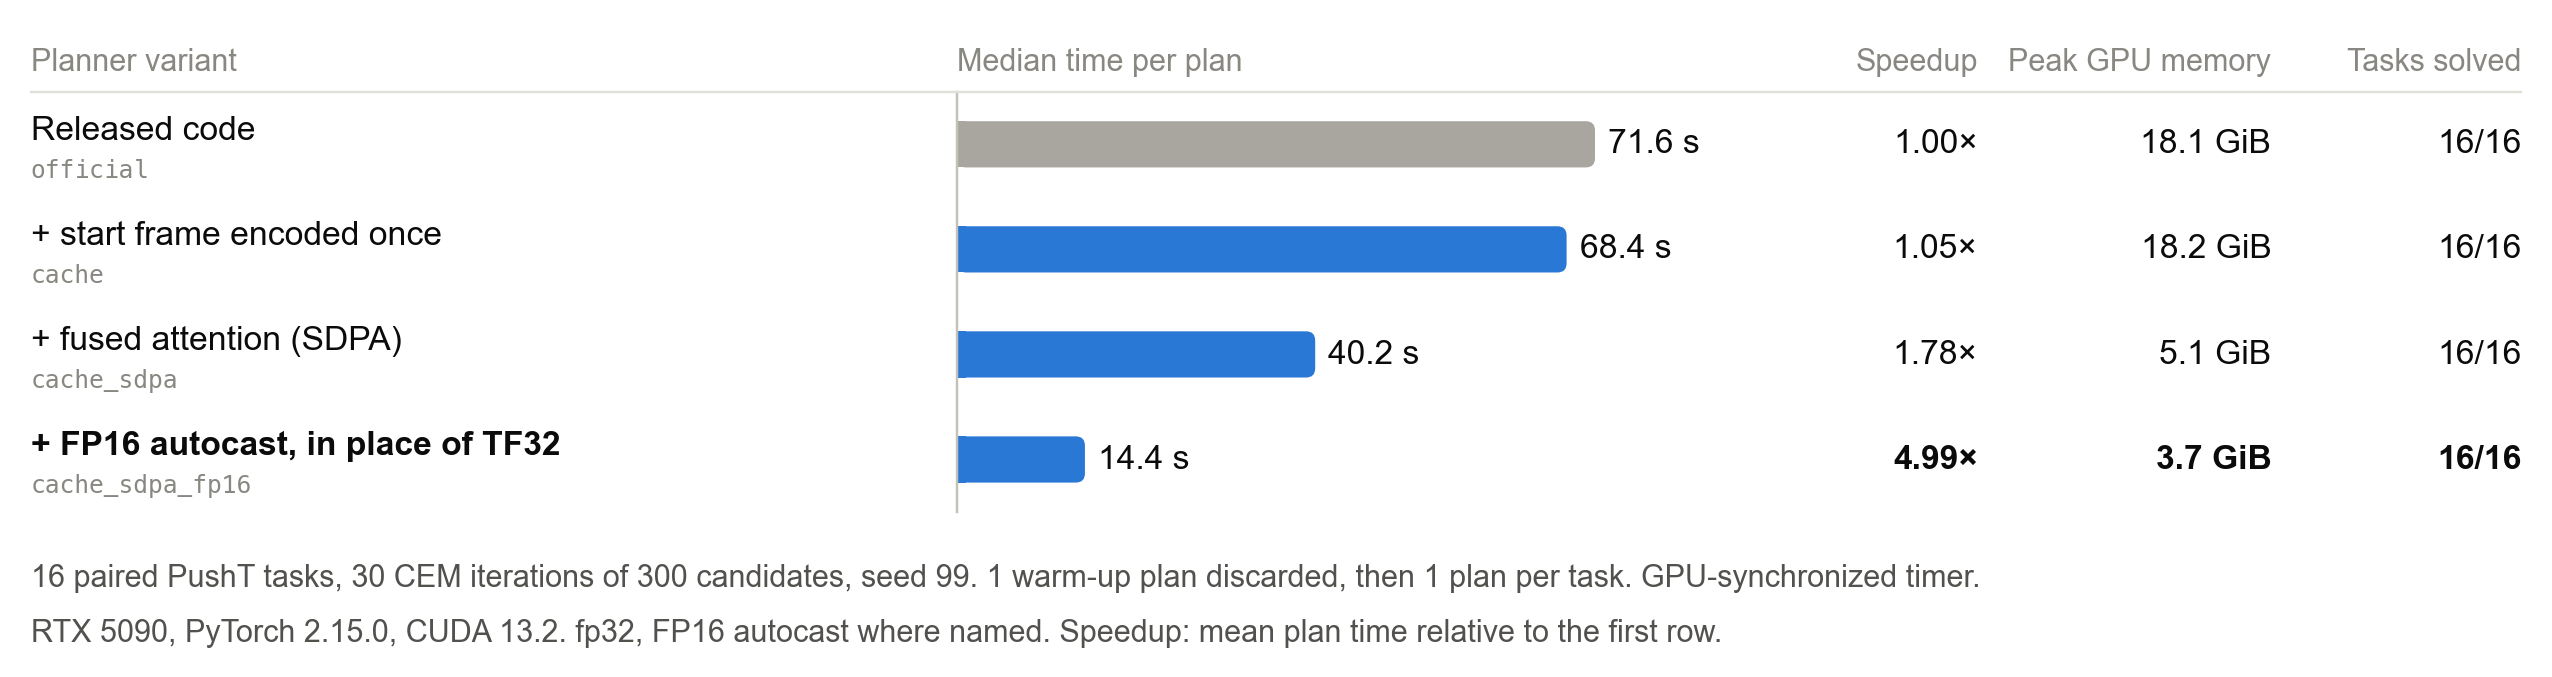
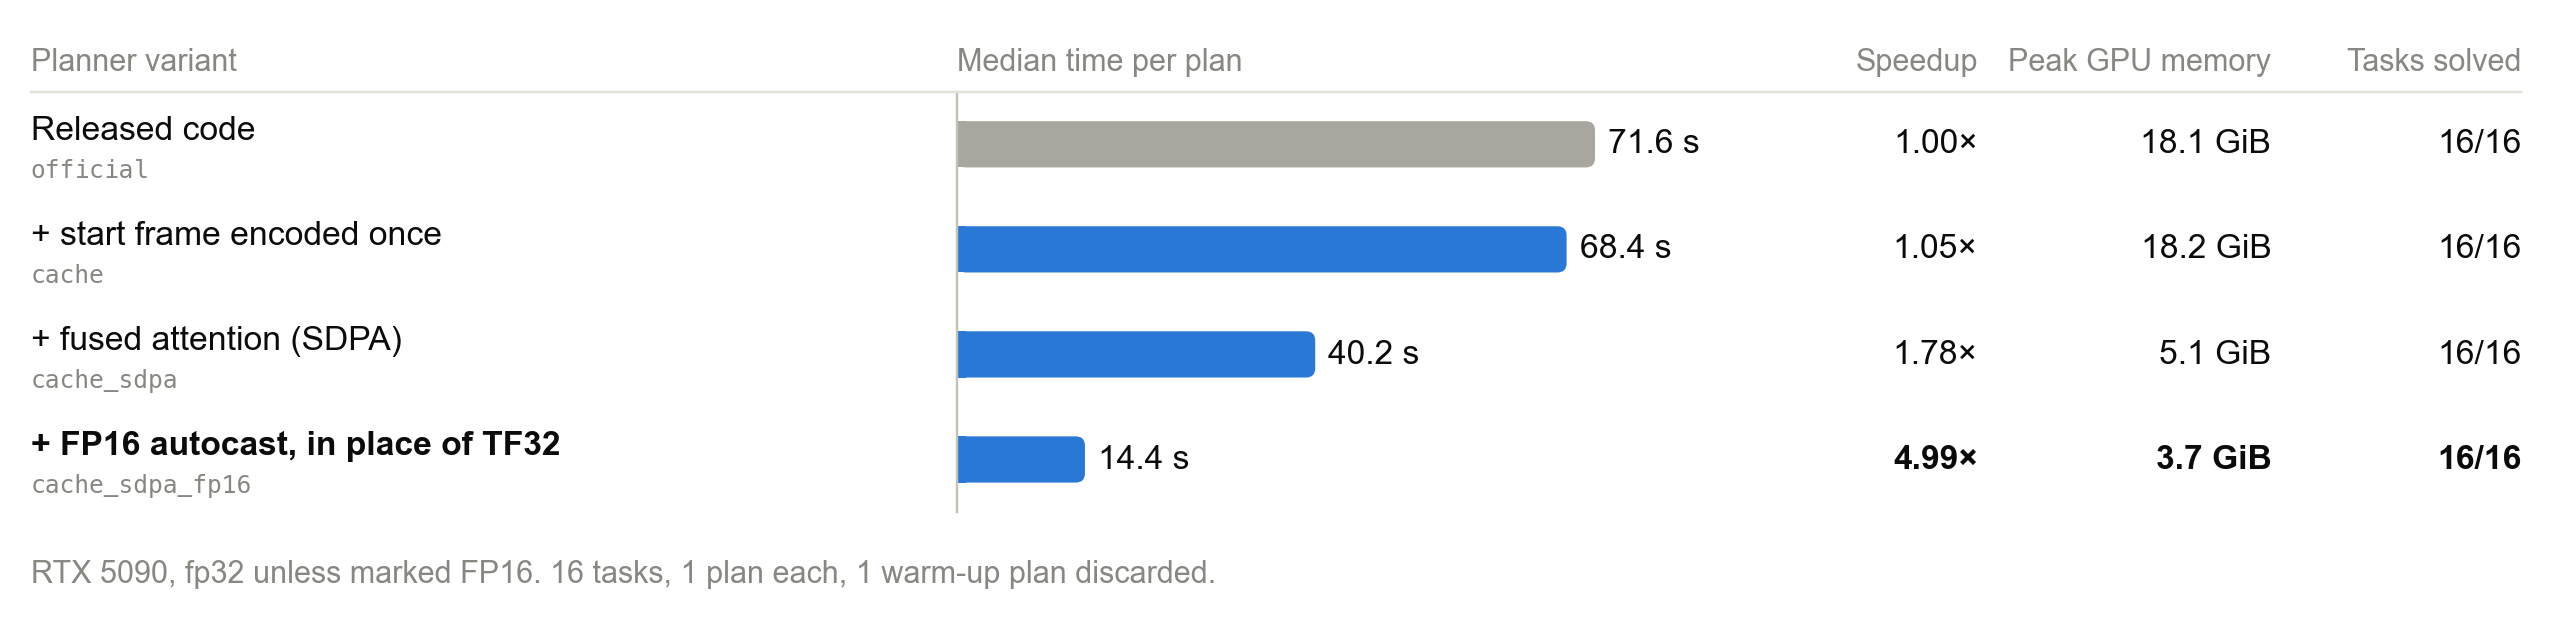
Results figure: one short conditions line

diff --git a/bench/summarize.py b/bench/summarize.py
@@ -113,7 +113,7 @@ if V:
 
     # summary.png: one row per variant, read as a table with the plan time drawn as a bar
     names = list(V); n = len(names); best = min(V.values(), key=lambda v: v["latency_median_s"])
-    fig = plt.figure(figsize=(11.6, 1.2 + 0.47 * n)); H = fig.get_figheight(); top, bot = 1 - 0.42 / H, 0.75 / H
+    fig = plt.figure(figsize=(11.6, 0.95 + 0.47 * n)); H = fig.get_figheight(); top, bot = 1 - 0.42 / H, 0.5 / H
     ax = fig.add_axes([0.375, bot, 0.30, top - bot]); row = blended_transform_factory(fig.transFigure, ax.transData)
     hbars(ax, [V[k]["latency_median_s"] for k in names], [GRAY if V[k] is base else BLUE for k in names],
           lambda v: f"{v:.1f} s", 1.2 * max(V[k]["latency_median_s"] for k in names))
@@ -130,11 +130,8 @@ if V:
                  f"{sum(v['success'])}/{len(v['success'])}"]
         for (x, ha, _), text in zip(cols[2:], cells):
             ax.text(x, y, text, transform=row, ha=ha, va="center", fontweight=bold)
-    fig.text(0.012, 0.45 / H, f"{M['n_tasks']} paired PushT tasks, {M['cem_opt_steps']} CEM iterations of {M['batch_candidates']} candidates, "
-             f"seed {M['seed']}. {M['warmup_plans']} warm-up plan discarded, then {M['repetitions']}. GPU-synchronized timer.",
-             fontsize=10, color=INK2, va="center")
-    fig.text(0.012, 0.2 / H, f"{gpu}, PyTorch {M['torch'].split('+')[0]}, CUDA {M['cuda']}. fp32, FP16 autocast where named. "
-             "Speedup: mean plan time relative to the first row.", fontsize=10, color=INK2, va="center")
+    fig.text(0.012, 0.22 / H, f"{gpu}, fp32 unless marked FP16. {M['n_tasks']} tasks, 1 plan each, {M['warmup_plans']} warm-up plan discarded.",
+             fontsize=10, color=MUTED, va="center")
     fig.savefig(path.with_name("summary.png")); plt.close(fig)
 
 print("\nRollout vs the official rollout on identical inputs (one task, all candidates):\n")
